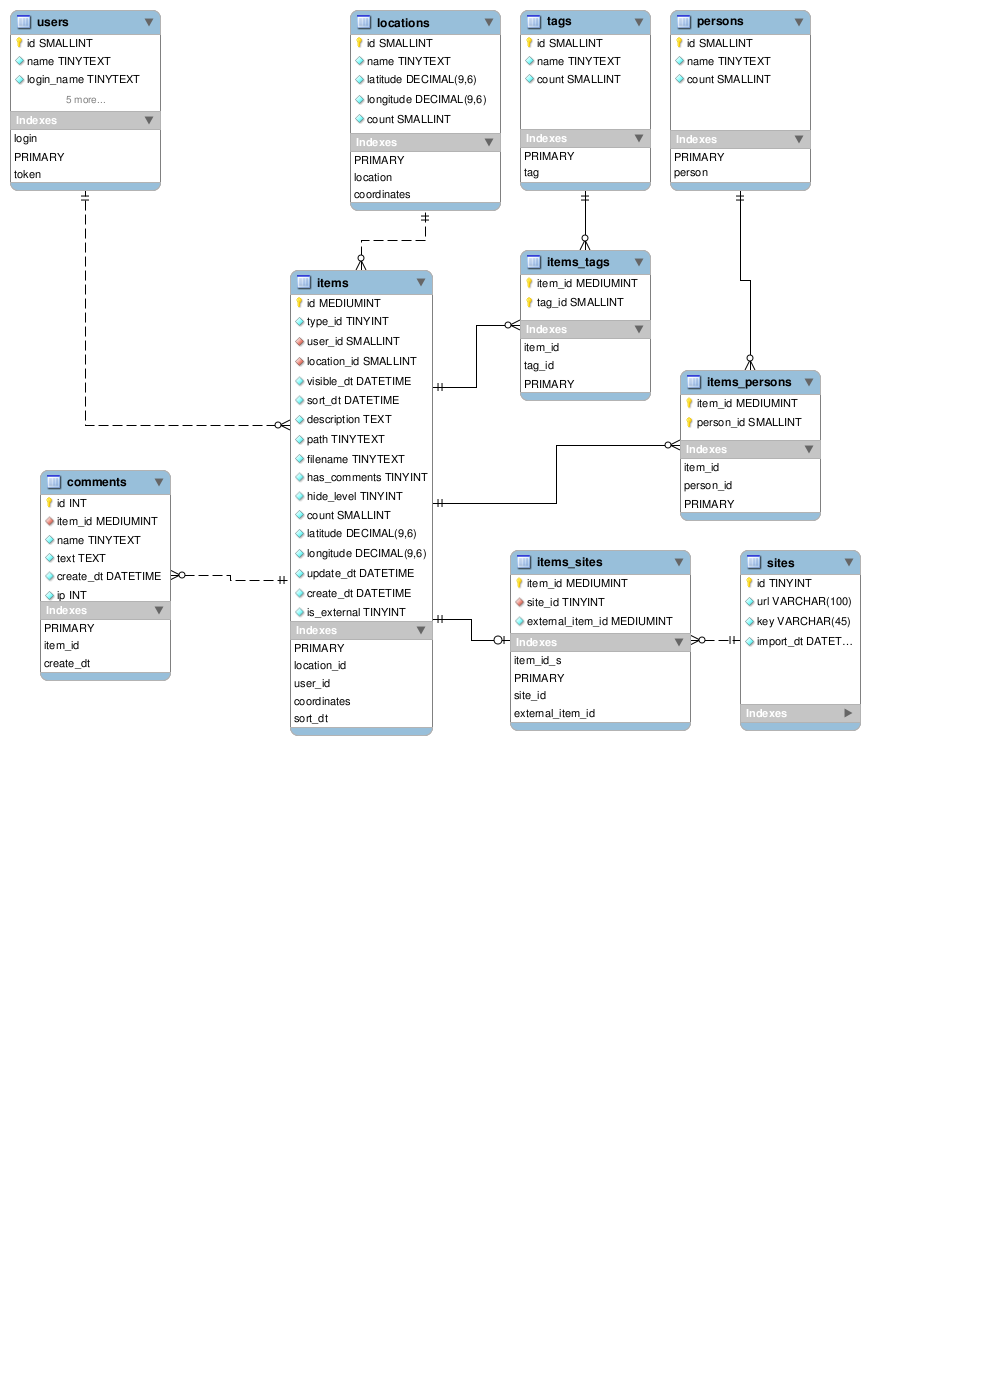
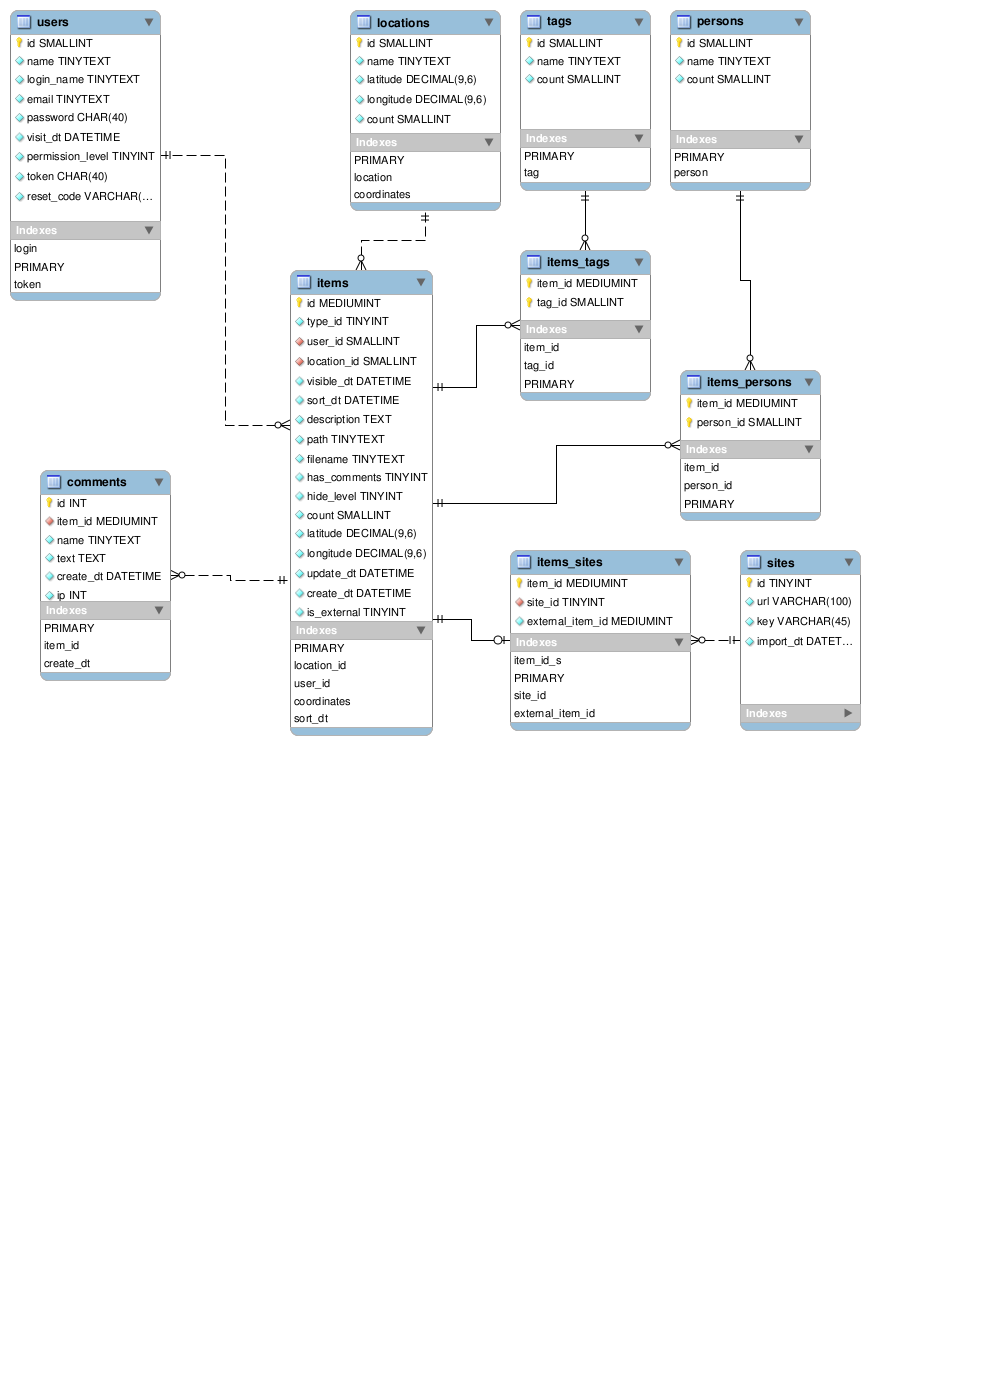
added `reset_code` to user table in database

Changed region(s): [[0.0, 0.0623, 0.1826, 0.2181]]

diff --git a/classes/model/kwalbum/user.php b/classes/model/kwalbum/user.php
@@ -12,7 +12,7 @@
 
 class Model_Kwalbum_User extends Kwalbum_Model
 {
-	public $id, $name, $login_name, $email, $token, $visit_date, $permission_level;
+	public $id, $name, $login_name, $email, $token, $visit_date, $permission_level, $reset_code;
 	private $_password;
 
 	public function load($id = null, $field = 'id')
@@ -25,7 +25,7 @@ class Model_Kwalbum_User extends Kwalbum_Model
 
 		try {
 			$result = DB::query(Database::SELECT,
-				"SELECT id, name, login_name, email, password, token, visit_dt, permission_level
+				"SELECT id, name, login_name, email, password, token, visit_dt, permission_level, reset_code
 				FROM kwalbum_users
 				WHERE $field = :id
 				LIMIT 1")
@@ -49,6 +49,7 @@ class Model_Kwalbum_User extends Kwalbum_Model
 		$this->token = $row['token'];
 		$this->visit_date = $row['visit_dt'];
 		$this->permission_level = (int)$row['permission_level'];
+		$this->reset_code = $row['reset_code'];
 		$this->loaded = true;
 
 		return $this;
@@ -60,8 +61,8 @@ class Model_Kwalbum_User extends Kwalbum_Model
 		{
 			$query = DB::query(Database::INSERT,
 				"INSERT INTO kwalbum_users
-				(name, login_name, email, password, token, visit_dt, permission_level)
-				VALUES (:name, :login_name, :email, :password, :token, :visit_dt, :permission_level)");
+				(name, login_name, email, password, token, visit_dt, permission_level, reset_code)
+				VALUES (:name, :login_name, :email, :password, :token, :visit_dt, :permission_level, :reset_code)");
 			if ( ! $this->permission_level)
 			{
 				$this->permission_level = 1;
@@ -85,7 +86,8 @@ class Model_Kwalbum_User extends Kwalbum_Model
 			->param(':password', $this->_password)
 			->param(':token', $this->token)
 			->param(':visit_dt', $this->visit_date)
-			->param(':permission_level', $this->permission_level);
+			->param(':permission_level', $this->permission_level)
+			->param(':reset_code', $this->reset_code);
 
 		$result = $query->execute();
 		if ($this->loaded == false)
@@ -174,6 +176,15 @@ class Model_Kwalbum_User extends Kwalbum_Model
 		session_start();
 		if ($action == 'logout')
 		{
+			if ( ! empty($_SESSION['kwalbum_id']))
+			{
+				$user = $this->load((int)$_SESSION['kwalbum_id']);
+				if ($this->token)
+				{
+					$this->token = '';
+					$this->save;
+				}
+			}
 			unset($_SESSION['kwalbum_id']);
 			unset($_SESSION['kwalbum_edit']);
 			setcookie('kwalbum', '', time() - 36000, '/');
@@ -186,6 +197,11 @@ class Model_Kwalbum_User extends Kwalbum_Model
 		{
 			$id = (int)$_SESSION['kwalbum_id'];
 			$this->load($id);
+			if ($this->reset_code)
+			{
+				$this->reset_code = '';
+				$this->save();
+			}
 		}
 		elseif (isset ($_COOKIE['kwalbum']))
 		{
@@ -199,6 +215,15 @@ class Model_Kwalbum_User extends Kwalbum_Model
 			}
 			else
 			{
+				if ( ! empty($_SESSION['kwalbum_id']))
+				{
+					$user = $this->load((int)$_SESSION['kwalbum_id']);
+					if ($this->token)
+					{
+						$this->token = '';
+						$this->save;
+					}
+				}
 				unset($_SESSION['kwalbum_id']);
 				unset($_SESSION['kwalbum_edit']);
 				setcookie('kwalbum', '', time() - 36000, '/');
@@ -215,7 +240,7 @@ class Model_Kwalbum_User extends Kwalbum_Model
 	{
 		$this->id = $this->permission_level = 0;
 		$this->name = $this->login_name = $this->email = $this->_password
-			= $this->token = $this->visit_date = '';
+			= $this->token = $this->visit_date = $this->reset_code = '';
 		$this->loaded = false;
 	}
 

diff --git a/classes/controller/install.php b/classes/controller/install.php
@@ -179,6 +179,7 @@ class Controller_Install extends Controller_Kwalbum
 		          `visit_dt` DATETIME NOT NULL ,
 		          `permission_level` TINYINT UNSIGNED NOT NULL DEFAULT 0 ,
 				  `token` CHAR(40) NOT NULL ,
+				  `reset_code` VARCHAR(40) NOT NULL ,
 				  INDEX `login` (`login_name` ASC, `password` ASC) ,
 				  INDEX `token` (`token` ASC) ,
 				  PRIMARY KEY (`id`)
